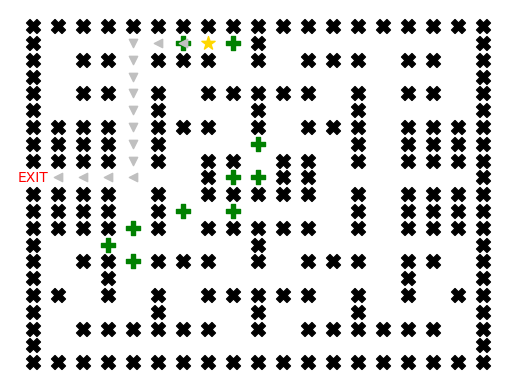
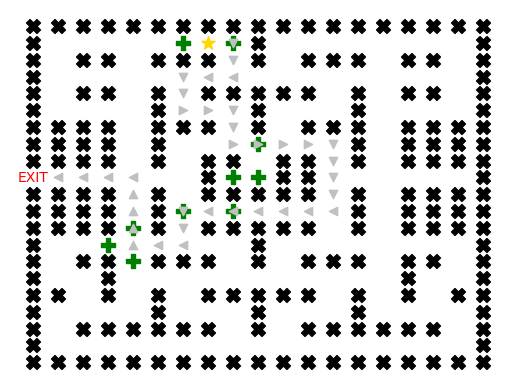
Final changes

diff --git a/ai_pygame.py b/ai_pygame.py
@@ -1,6 +1,8 @@
 
 #from curses import KEY_ENTER
+from inspect import trace
 import os
+from venv import create
 import matplotlib.pyplot as plt
 import copy
 from heapq import heappop
@@ -84,12 +86,12 @@ def visualize_maze(matrix, bonus, portal, start, end, route=None, save_path=''):
     plt.savefig(f'{save_path}.png', bbox_inches='tight')
     plt.show()
 
-    print(f'Starting point (x, y) = {start[0], start[1]}')
-    print(f'Ending point (x, y) = {end[0], end[1]}')
+    # print(f'Starting point (x, y) = {start[0], start[1]}')
+    # print(f'Ending point (x, y) = {end[0], end[1]}')
     
-    if bonus:
-        for _, point in enumerate(bonus):
-            print(f'Bonus point at position (x, y) = {point[0], point[1]} with point {point[2]}')   
+    # if bonus:
+    #     for _, point in enumerate(bonus):
+    #         print(f'Bonus point at position (x, y) = {point[0], point[1]} with point {point[2]}')   
 
 # def read_file(file_name: str = 'maze.txt'):
 #     f=open(file_name,'r')
@@ -426,28 +428,32 @@ def BFS_teleport(a, start, goal):
 #     return 0
 
 # def Check_Bonus(a, bonus_points, u, end):
-#     Min = 0
+#     Min = oo
 #     Min_i = None
-#     for i in bonus_points:
-#         tmp = Heuristic_Bonus(u,(i[0],i[1]))
-#         tmp1 = Heuristic_Bonus(u,end)
-#         tmp2 = Heuristic_Bonus((i[0],i[1]),end)
-#         if Is_Middle(a, end, u, i) == 1:
-#             if tmp*2 < abs(i[2]):
-#                 if Min < abs(i[2])-tmp*2:
-#                     Min = abs(i[2])-tmp*2
-#                     Min_i=i
-#         else:
-#             if tmp1>tmp2:
-#                 if tmp<=abs(i[2]):
-#                     if Min < abs(i[2]) - tmp:
-#                         Min = abs(i[2]) - tmp
-#                         Min_i=i
+#     pos = None
+#     for j in range(len(bonus_points)):
+#         i = bonus_points[j]
+#         if i[3] == True:
+#             tmp = Heuristic_Bonus(u,(i[0],i[1]))
+#             tmp1 = Heuristic_Bonus(u,end)
+#             tmp2 = Heuristic_Bonus((i[0],i[1]),end)
+#             if Is_Middle(a, end, u, i) == 1:
+#                 if tmp*2 < abs(i[2]):
+#                     if Min < abs(i[2])-tmp*2:
+#                         Min = abs(i[2])-tmp*2
+#                         Min_i, pos = i, j
 #             else:
-#                 if abs(tmp1-tmp2)+tmp < abs(i[2]):
-#                     if Min < abs(i[2])- abs(tmp1-tmp2) - tmp:
-#                         Min = abs(i[2])- abs(tmp1-tmp2) - tmp
-#                         Min_i=i
+#                 if tmp1>tmp2:
+#                     if tmp<=abs(i[2]):
+#                         if Min < abs(i[2]) - tmp:
+#                             Min = abs(i[2]) - tmp
+#                             Min_i, pos = i, j
+#                 else:
+#                     if abs(tmp1-tmp2)+tmp < abs(i[2]):
+#                         if Min < abs(i[2])- abs(tmp1-tmp2) - tmp:
+#                             Min = abs(i[2])- abs(tmp1-tmp2) - tmp
+#                             Min_i, pos = i, j
+#     bonus_points[pos] = (Min_i[0], Min_i[1], Min_i[2], False)
 #     return Min_i
 
 # def Get_Bonus(new_node, bonus_points):
@@ -455,14 +461,14 @@ def BFS_teleport(a, start, goal):
 #         if (i[0],i[1]) == new_node:
 #             return i[2]
 
-# def a_star(graph, start, end, bonus_points):
+# def a_star_bonus(graph, bonus_points, start, dest):
 #     distances = {(start[0], start[1]): 0}
-#     trace = {start:None}
 #     visited = set()
+#     trace = {start:None}
 #     goal = []
-#     goal.append(end)
-#     open=[]
-
+#     goal.append(dest)
+#     open = []
+#     bonus_points = [(x[0], x[1], x[2], True) for x in bonus_points]
 
 #     pq = PriorityQueue()
 #     pq.put((0, (start[0], start[1])))
@@ -472,11 +478,11 @@ def BFS_teleport(a, start, goal):
 #         cur_row, cur_col = node
 #         if node == (goal[0][0],goal[0][1]):
 #             goal.pop(0)
-#         if goal==[]:
+#         if goal == []:
 #             break
         
 #         tmp_goal = Check_Bonus(graph, bonus_points, node, goal[0])
-#         if tmp_goal!=None:
+#         if tmp_goal != None:
 #             goal.insert(0, (tmp_goal[0],tmp_goal[1]))
 
 #         for i in range(0,4):
@@ -495,18 +501,18 @@ def BFS_teleport(a, start, goal):
 #                     priority = new_distance + Heuristic_Bonus(new_node, goal[0])
 #                     pq.put((priority, new_node))
 #                     trace[new_node] = node
-        
-#         visited.add(node)
+
+#                 visited.add(new_node)
 
 #     path = []
-#     f = end
-#     while trace[f] != None:
-#         path.append(trace[f])
+#     f = dest
+#     while f != None:
+#         path.append(f)
 #         f = trace[f]
         
 #     path.reverse()
-#     path.append(end)
 #     return path, open
+
 def nearest_bonus_point(u, bonus_points):
     res = None
     for v in bonus_points:
@@ -514,13 +520,27 @@ def nearest_bonus_point(u, bonus_points):
         res = d if res is None else min(res, d)
     return res
 
+def compute_cost(path, bonus_points):
+    cost, cnt = 0, 0
+    for u in path:
+        for v in bonus_points:
+            if u[0] == v[0] and u[1] == v[1]:
+                cost += v[2]
+                cnt += 1
+                break
+    return cost + len(path) - cnt            
+
 def bonus_astar(matrix, bonus_points, start, goal):
     r_size, c_size = len(matrix), len(matrix[0])
+    for u in bonus_points:
+        matrix[u[0]][u[1]] = u[2]
+
     d = [[2 * oo for i in range(c_size)] for j in range(r_size)]
     trace = [[None for i in range(c_size)] for j in range(r_size)]
     d[start[0]][start[1]] = 0
     op = []
     PQ = PriorityQueue(len(matrix) * len(matrix[0]))
+
     PQ.put((0, start))
     while not PQ.empty():
         _, u = PQ.get()
@@ -533,48 +553,47 @@ def bonus_astar(matrix, bonus_points, start, goal):
             if matrix[v[0]][v[1]] == 'x' or matrix[v[0]][v[1]] == 'S' or trace[v[0]][v[1]] != None: 
                 continue
             w = 1 if matrix[v[0]][v[1]] == ' ' else matrix[v[0]][v[1]]
-            f = d[u[0]][u[1]] + w + abs(goal[0] - v[0]) + abs(goal[1] - v[1]) + nearest_bonus_point(v, bonus_points)
+            f = d[u[0]][u[1]] + w + nearest_bonus_point(v, bonus_points)
             if d[v[0]][v[1]] > f:
                 trace[v[0]][v[1]] = u
                 d[v[0]][v[1]] = d[u[0]][u[1]] + w
                 PQ.put((f, v))
                 op.append(v)
+
     if trace[goal[0]][goal[1]] == None: return None, op
     return createPath(trace, start, goal), op
 
-def greedyValue(u, bonus_points):
-    res, p = None, None
-    for v in bonus_points:
-        d = abs(u[0] - v[0]) + abs(u[1] - v[1])
-        if res is None:
-            res, p = d, v
-        elif res > d:
-            res, p = d, v
-    return res, p
+def Relax(d, trace, u, v, w):
+    res = d[u[0]][u[1]] < oo and d[v[0]][v[1]] > d[u[0]][u[1]] + w
+    if res:
+        d[v[0]][v[1]] = d[u[0]][u[1]] + w
+        trace[v[0]][v[1]] = u
+    return d, trace, res
 
-def bonus_GBFS(matrix, bonus_points, start, goal):
+def Bellman_Ford(matrix, bonus_points, start, goal):
     r_size, c_size = len(matrix), len(matrix[0])
+    d = [[oo for i in range(c_size)] for j in range(r_size)]
     trace = [[None for i in range(c_size)] for j in range(r_size)]
-    op = []
-    PQ = PriorityQueue(len(matrix) * len(matrix[0]))
-    PQ.put((0, start))
-    while not PQ.empty():
-        _, u = PQ.get()
-        if (u == goal):
-            break
-        for k in range(4):
-            v = (u[0] + row[k], u[1] + col[k])
-            if v[0] < 0 or v[0] > r_size or v[1] < 0 or v[1] > c_size:
-                continue
-            if matrix[v[0]][v[1]] == 'x' or matrix[v[0]][v[1]] == 'S' or trace[v[0]][v[1]] != None: 
-                continue
-            trace[v[0]][v[1]] = u
-            g, w = greedyValue(v, bonus_points)
-            f = g + matrix[w[0]][w[1]]
-            PQ.put((f, v))
-            op.append(v)
-    if trace[goal[0]][goal[1]] == None: return None, op
-    return createPath(trace, start, goal), op
+    d[start[0]][start[1]] = 0 
+    for u in bonus_points:
+        matrix[u[0]][u[1]] = u[2]
+    for cntLoop in range(r_size * c_size - 1):
+        stop = True
+        for i in range(r_size):
+            for j in range(c_size):
+                if matrix[i][j] != 'x':
+                    u = (i, j)
+                    for k in range(4):
+                        v = (u[0] + row[k], u[1] + col[k])
+                        if v[0] < 0 or v[0] > r_size or v[1] < 0 or v[1] > c_size or matrix[v[0]][v[1]] == 'x' or v == trace[u[0]][u[1]]:
+                            continue
+                        w = 1 if type(matrix[v[0]][v[1]]) == str else matrix[v[0]][v[1]]
+                        d, trace, relax = Relax(d, trace, u, v, w)
+                        if relax: stop = False
+        if stop: break
+    if trace[goal[0]][goal[1]] is None: return None
+    return createPath(trace, start, goal)
+                        
 class Board:
     def _init_(self):
         self.board = []

diff --git a/main.py b/main.py
@@ -96,9 +96,11 @@ def level_2(maps):
                         goal = (i,j)
                 else:
                     continue 
-        wayout, open = ap.bonus_astar(matrix, bonus_points, start, goal)
+        wayout, openSet = ap.bonus_astar(matrix, bonus_points, start, goal)
         ap.visualize_maze(matrix, bonus_points, portals, start, goal, wayout, f'output\\level_2\\input{mapID}\\output{mapID}')
-
+        with open(f'output\\level_2\\input{mapID}\\output{mapID}.txt', 'w') as file:
+            file.write(f'Cost: {ap.compute_cost(wayout, bonus_points)}')
+            file.close()
         mapID += 1
     pass
 
@@ -126,7 +128,7 @@ def advance(maps):
                     continue     
         wayout, open = a.BFS_teleport(matrix, start, goal)
         ap.visualize_maze(matrix, bonus_points, portals, start, goal, wayout, f'output\\advance\\input{mapID}\\output{mapID}')
-
+       
         mapID += 1
     pass
 
